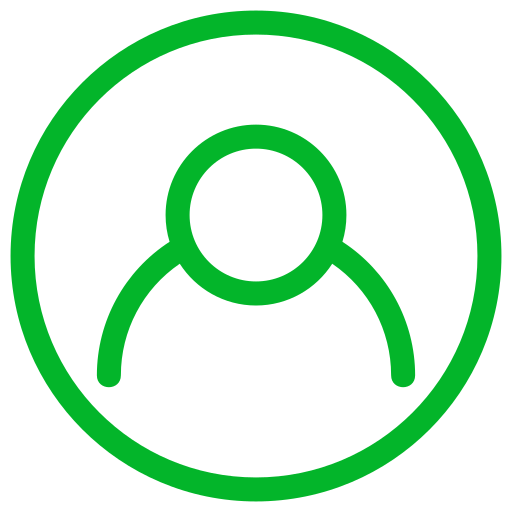
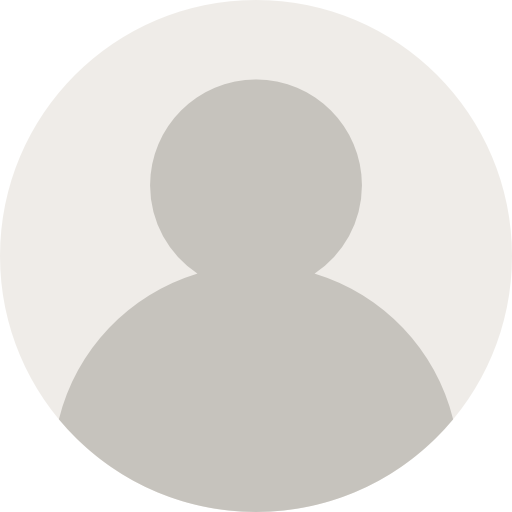
order detail UI added

diff --git a/FoodSaverMaui/Views/OrderDetail.xaml b/FoodSaverMaui/Views/OrderDetail.xaml
@@ -1,0 +1,103 @@
+<?xml version="1.0" encoding="utf-8" ?>
+<ContentPage xmlns="http://schemas.microsoft.com/dotnet/2021/maui"
+             xmlns:x="http://schemas.microsoft.com/winfx/2009/xaml"
+             x:Class="FoodSaverMaui.Views.OrderDetail"
+             Title="OrderDetail">
+    <Grid RowDefinitions="Auto,*" HorizontalOptions="FillAndExpand" VerticalOptions="FillAndExpand" Padding="10">
+        <Border StrokeShape="RoundRectangle 24,24,24,24" StrokeThickness="1.5" StrokeDashOffset="12">
+            <Grid RowDefinitions="Auto,Auto,Auto,Auto,Auto,Auto,*" HorizontalOptions="FillAndExpand" VerticalOptions="FillAndExpand" Padding="10" RowSpacing="10">
+
+                <Grid Grid.Row="0" ColumnDefinitions="Auto,*">
+                    <Grid Grid.Column="0" RowDefinitions="Auto,*">
+                        <Label Grid.Row="0" Text="2023/05/21"/>
+                        <Border  Grid.Row="1"  StrokeShape="RoundRectangle 20,20,20,20" StrokeThickness="0.0" StrokeDashOffset="12" HorizontalOptions="EndAndExpand">
+                            <Grid Padding="5" BackgroundColor="#edf9eb">
+                                <Label Grid.Row="0" Text="Delivered" TextColor="#385897" FontSize="15"/>
+                            </Grid>
+                        </Border>
+                    </Grid>
+                    <Border  Grid.Column="1" StrokeShape="RoundRectangle 5,5,5,5" StrokeThickness="1.5" StrokeDashOffset="12" HorizontalOptions="EndAndExpand" VerticalOptions="CenterAndExpand">
+                        <Grid ColumnDefinitions="Auto,*"  Padding="5" BackgroundColor="#d3d3d3">
+                            <Label Text="Update Status" Grid.Column="0" />
+                            <Image Source="down.png" Grid.Column="1" HeightRequest="24" />
+                        </Grid>
+                    </Border>
+                </Grid>
+
+                <Grid Grid.Row="1" RowDefinitions="Auto,Auto,Auto,*" RowSpacing="3">
+                    <Grid Grid.Row="0" ColumnDefinitions="Auto,*" ColumnSpacing="3" Padding="10,10,0,0">
+                        <Image Grid.Column="0" Source="user.png" HeightRequest="24" WidthRequest="24"/>
+                        <Label Grid.Column="1" FontSize="18" TextColor="#385897" FontAttributes="Bold" FontAutoScalingEnabled="False" Text="Customer " />
+
+                    </Grid>
+                    <Grid Grid.Row="1" ColumnDefinitions="Auto,*" ColumnSpacing="3" Padding="40,0,0,0">
+
+                        <Label Grid.Column="0" FontSize="16" TextColor="Gray"  Text="Name : " />
+                        <Label Grid.Column="1" FontSize="16" Text="Rose" />
+                    </Grid>
+                    <Grid Grid.Row="2" ColumnDefinitions="Auto,*" ColumnSpacing="3" Padding="40,0,0,0">
+
+                        <Label Grid.Column="0" FontSize="16" TextColor="Gray"  Text="Email : " />
+                        <Label Grid.Column="1" FontSize="16" Text="rose@gmail.com" />
+                    </Grid>
+                    <Grid Grid.Row="3" ColumnDefinitions="Auto,*" ColumnSpacing="3" Padding="40,0,0,0">
+
+                        <Label Grid.Column="0" FontSize="16" TextColor="Gray"  Text="Phone : " />
+                        <Label Grid.Column="1" FontSize="16" Text="9800000001" />
+                    </Grid>
+                </Grid>
+
+                <BoxView  Grid.Row="2" HeightRequest="0.5" BackgroundColor="Gray"/>
+                <Grid Grid.Row="3" RowDefinitions="Auto,Auto,Auto,*" RowSpacing="3">
+                    <Grid Grid.Row="0" ColumnDefinitions="Auto,*" ColumnSpacing="3" Padding="10,10,0,0">
+                        <Image Grid.Column="0" Source="user.png" HeightRequest="24" WidthRequest="24"/>
+                        <Label Grid.Column="1" FontSize="18" TextColor="#385897" FontAttributes="Bold" FontAutoScalingEnabled="False" Text="Order Info " />
+
+                    </Grid>
+                    <Grid Grid.Row="1" ColumnDefinitions="Auto,*" ColumnSpacing="3" Padding="40,0,0,0">
+
+                        <Label Grid.Column="0" FontSize="16" TextColor="Gray"  Text="Name : " />
+                        <Label Grid.Column="1" FontSize="16" Text="Rose" />
+                    </Grid>
+                    <Grid Grid.Row="2" ColumnDefinitions="Auto,*" ColumnSpacing="3" Padding="40,0,0,0">
+
+                        <Label Grid.Column="0" FontSize="16" TextColor="Gray"  Text="Status : " />
+                        <Label Grid.Column="1" FontSize="16" Text="Delivered" />
+                    </Grid>
+                    <Grid Grid.Row="3" ColumnDefinitions="Auto,*" ColumnSpacing="3" Padding="40,0,0,0">
+
+                        <Label Grid.Column="0" FontSize="16" TextColor="Gray"  Text="Payment Method : " />
+                        <Label Grid.Column="1" FontSize="16" Text="Khalti" />
+                    </Grid>
+                </Grid>
+                <BoxView  Grid.Row="4" HeightRequest="0.5" BackgroundColor="Gray"/>
+                <Grid Grid.Row="5" RowDefinitions="Auto,Auto,Auto,*" RowSpacing="3">
+                    <Grid Grid.Row="0" ColumnDefinitions="Auto,*" ColumnSpacing="3" Padding="10,10,0,0">
+                        <Image Grid.Column="0" Source="user.png" HeightRequest="24" WidthRequest="24"/>
+                        <Label Grid.Column="1" FontSize="18" TextColor="#385897" FontAttributes="Bold" FontAutoScalingEnabled="False" Text="Delivery Info " />
+
+                    </Grid>
+                    <Grid Grid.Row="1" ColumnDefinitions="Auto,*" ColumnSpacing="3" Padding="40,0,0,0">
+
+                        <Label Grid.Column="0" FontSize="16" TextColor="Gray"  Text="City Name : " />
+                        <Label Grid.Column="1" FontSize="16" Text="Butwal" />
+                    </Grid>
+                    <Grid Grid.Row="2" ColumnDefinitions="Auto,*" ColumnSpacing="3" Padding="40,0,0,0">
+
+                        <Label Grid.Column="0" FontSize="16" TextColor="Gray"  Text="Tole Name: " />
+                        <Label Grid.Column="1" FontSize="16" Text="Sukkhanagar" />
+                    </Grid>
+                    <Grid Grid.Row="3" ColumnDefinitions="Auto,*" ColumnSpacing="3" Padding="40,0,0,0">
+
+                        <Label Grid.Column="0" FontSize="16" TextColor="Gray"  Text="Ward Number : " />
+                        <Label Grid.Column="1" FontSize="16" Text="8" />
+                    </Grid>
+                </Grid>
+               
+
+               
+
+            </Grid>
+        </Border>
+    </Grid>
+</ContentPage>

diff --git a/FoodSaverMaui/Views/UserProfile.xaml b/FoodSaverMaui/Views/UserProfile.xaml
@@ -123,7 +123,7 @@
 
 
                                                             </Grid>
-                                                        <Image  Grid.Column="1" Source="sold.png" HeightRequest="27"  >
+                                                        <Image IsVisible="{Binding IsBooked}"  Grid.Column="1" Source="sold.png" HeightRequest="27"  >
                                                             
                                                         </Image>
                                                         <Image  Grid.Column="2" Source="dots.png" HeightRequest="22" HorizontalOptions="EndAndExpand" Margin="0,0,5,0">
@@ -157,7 +157,8 @@
                                                                     <Label Grid.Row="1" TextColor="#385897"  Text="{Binding Quantity, StringFormat='Quantity: {0} kg'}" FontAttributes="Bold" FontSize="14"  />
                                                                 </Grid>
                                                                 <Button Grid.Column="1" Text="Details" 
-                                         
+                                                                    Command="{Binding Source={RelativeSource AncestorType={x:Type viewmodel:UserProfileViewModel}}, Path=OnDetailButtonTapped}"
+                                                                    CommandParameter="{Binding .}"
                                                                     HeightRequest="40" WidthRequest="100" Background="#03b25a"/>
                                                             </Grid>
                                                         </Grid>

diff --git a/FoodSaverMaui/ViewModel/UserProfileViewModel.cs b/FoodSaverMaui/ViewModel/UserProfileViewModel.cs
@@ -98,6 +98,7 @@ namespace FoodSaverMaui.ViewModel
         public Command OnHistoryTapped { get; }
         public Command OnPageLoad { get; }
         public Command OnPurchaseHistoryTapped { get; }
+        public Command OnDetailButtonTapped { get; }
 
         private readonly HubConnection _hubConnection;
         private readonly ISignalRService _signalRService;
@@ -117,7 +118,7 @@ namespace FoodSaverMaui.ViewModel
             OnDeleteUserTapped = new Command(async () => await DeleteUserTapped());
             OnChangeEmailTapped = new Command(async () => await ChangeEmailTapped());
             OnLogoutTapped = new Command(async() => await LogoutTapped());
-            
+            OnDetailButtonTapped = new Command<GetProductsResponse>(async (selectedProduct) => await DetailButtonTapped(selectedProduct));
             OnGetUserName = new Command(async () => await GetUserName());
             OnEditProfileTapped = new Command(async() => await EditProfileTapped());
             OnDotsTapped = new Command<GetProductsResponse>(async (selectedProduct) => await DotsTapped(selectedProduct));
@@ -129,6 +130,26 @@ namespace FoodSaverMaui.ViewModel
             OnPurchaseHistoryTapped = new Command(async() => await PurchaseHistoryTapped());
         }
 
+        public async Task DetailButtonTapped(GetProductsResponse selectedProduct)
+        {
+
+            if (selectedProduct == null)
+                return;
+            if (selectedProduct.IsBooked == true)
+            {
+                await Shell.Current.GoToAsync(nameof(OrderDetail));
+
+            }
+            else
+            {
+                await Shell.Current.GoToAsync(nameof(FoodDetail), true, new Dictionary<string, object>
+                    {
+
+                     {"Product", selectedProduct }
+                    });
+            
+            }
+        }
 
         public async Task PurchaseHistoryTapped()
         {
@@ -326,6 +347,7 @@ namespace FoodSaverMaui.ViewModel
                         foreach (var product in cacheResult)
                         {
                             Products.Add(product);
+
                         }
                         OnPropertyChanged(nameof(Products));
 

diff --git a/FoodSaverMaui/MauiProgram.cs b/FoodSaverMaui/MauiProgram.cs
@@ -58,6 +58,8 @@ namespace FoodSaverMaui
             builder.Services.AddSingleton<SalesRecordServices>();
             builder.Services.AddSingleton<PurchaseHistoryService>();
 
+            builder.Services.AddSingleton<OrderDetail>();
+            builder.Services.AddSingleton<OrderDetailViewModel>();
 
             builder.Services.AddSingleton<UpdatePassword>();
             builder.Services.AddSingleton<UpdatePasswordViewModel>();

diff --git a/FoodSaverMaui/AppShell.xaml.cs b/FoodSaverMaui/AppShell.xaml.cs
@@ -23,6 +23,7 @@ namespace FoodSaverMaui
             Routing.RegisterRoute(nameof(KhaltiPaymentView), typeof(KhaltiPaymentView));
             Routing.RegisterRoute(nameof(UploadPostSucessfull), typeof(UploadPostSucessfull));
             Routing.RegisterRoute(nameof(EditProfile), typeof(EditProfile));
+            Routing.RegisterRoute(nameof(OrderDetail), typeof(OrderDetail));
 
         }
 

diff --git a/FoodSaverMaui/Response/GetProductsResponse.cs b/FoodSaverMaui/Response/GetProductsResponse.cs
@@ -14,6 +14,7 @@ namespace FoodSaverMaui.Response
         public double PricePerKg { get; set; }
         public double Quantity { get; set; }
 
+        public bool IsBooked { get; set; }
         public string Date { get; set; }
         public string UserName { get; set; }
         public string CityName { get; set; }

diff --git a/FoodSaverMaui/ViewModel/OrderDetailViewModel.cs b/FoodSaverMaui/ViewModel/OrderDetailViewModel.cs
@@ -1,0 +1,14 @@
+using System;
+using System.Collections.Generic;
+using System.Linq;
+using System.Text;
+using System.Threading.Tasks;
+
+namespace FoodSaverMaui.ViewModel
+{
+    public class OrderDetailViewModel : BaseViewModel
+    {
+
+
+    }
+}

diff --git a/FoodSaverMaui/Views/OrderDetail.xaml.cs b/FoodSaverMaui/Views/OrderDetail.xaml.cs
@@ -1,0 +1,9 @@
+namespace FoodSaverMaui.Views;
+
+public partial class OrderDetail : ContentPage
+{
+	public OrderDetail()
+	{
+		InitializeComponent();
+	}
+}
